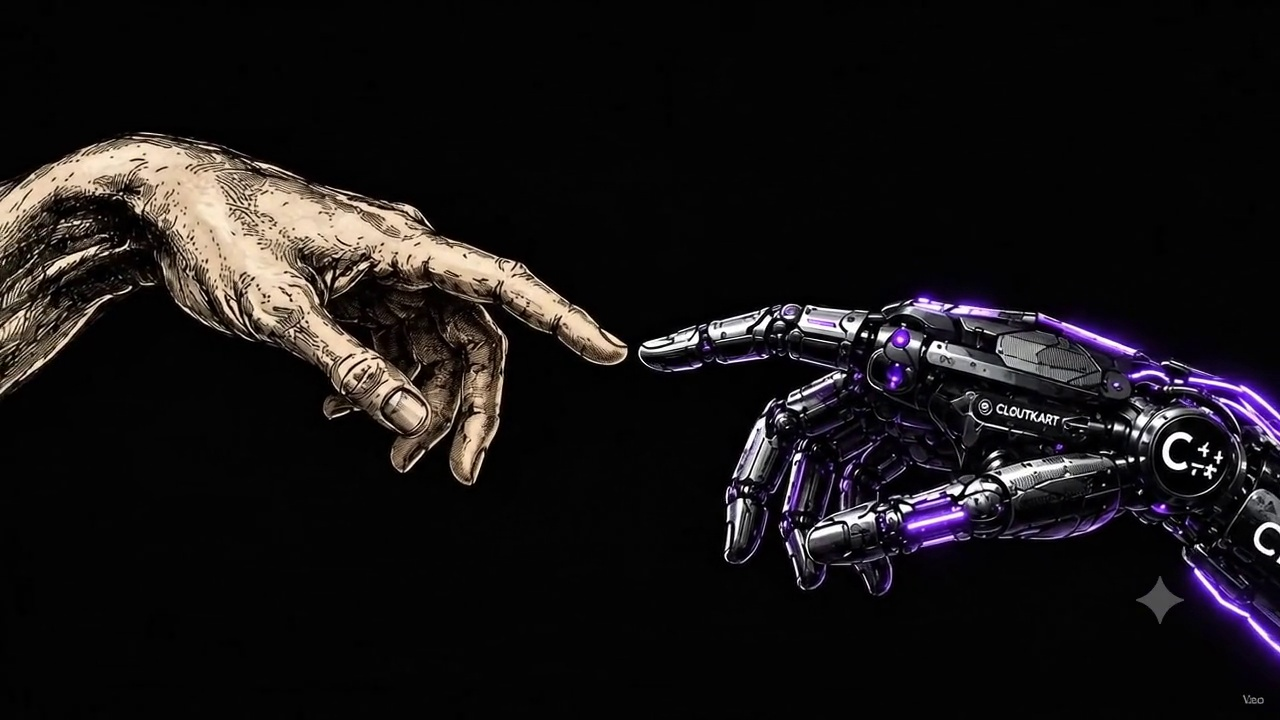
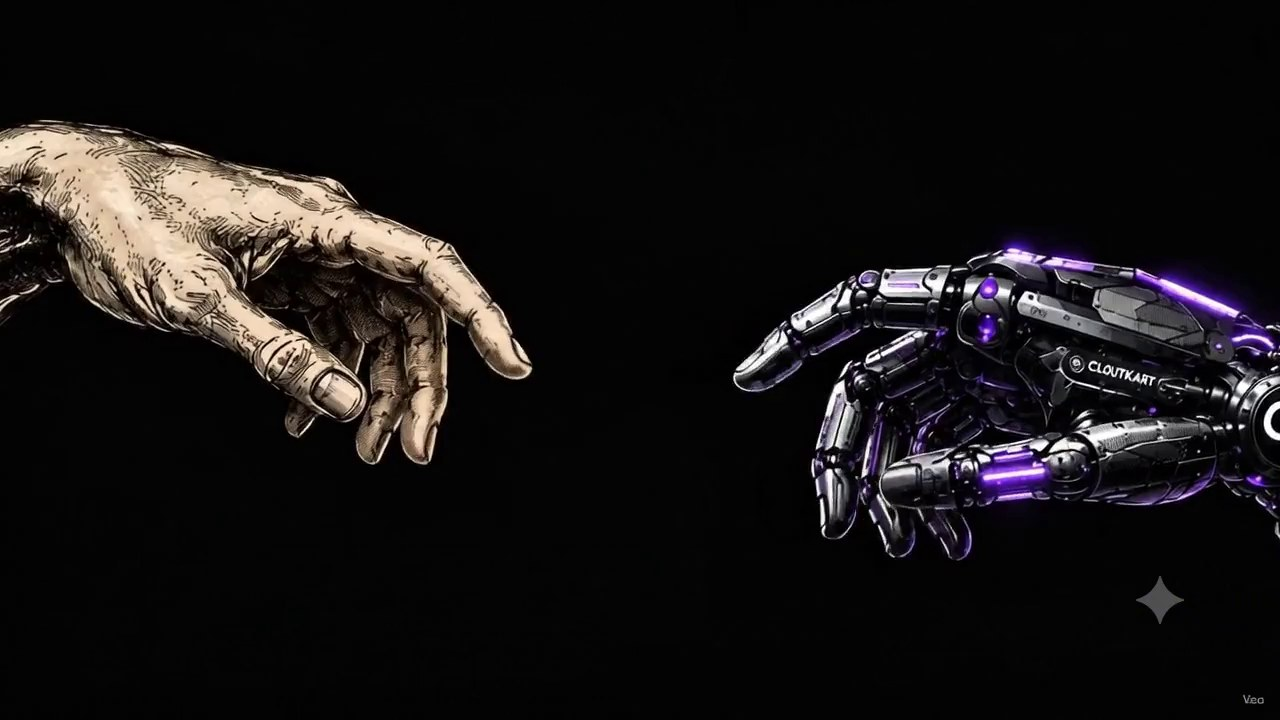
Sync hero video playback to scroll

Changed region(s): [[0.0, 0.1528, 1.0, 0.9472]]

diff --git a/src/components/Hero.tsx b/src/components/Hero.tsx
@@ -168,6 +168,7 @@ function VisionPreview() {
 export default function Hero({ onSignupOpen }: Props) {
   const heroRef = useRef<HTMLDivElement>(null);
   const videoLayerRef = useRef<HTMLDivElement>(null);
+  const heroVideoRef = useRef<HTMLVideoElement>(null);
   const statsRef = useRef<HTMLDivElement>(null);
   const { isLoggedIn } = useAuth();
   const navigate = useNavigate();
@@ -177,42 +178,55 @@ export default function Hero({ onSignupOpen }: Props) {
   const [convertActive, setConvertActive] = useState(false);
   const convertSvgRef = useRef<SVGSVGElement>(null);
 
-  // Move the oversized video against the page scroll to create depth while
-  // keeping the content layer stationary and readable.
+  // Scrub the video in both directions with the scroll position. The subtle
+  // opposing layer movement adds depth without moving the content itself.
   useEffect(() => {
     const hero = heroRef.current;
     const videoLayer = videoLayerRef.current;
-    if (!hero || !videoLayer) return;
+    const video = heroVideoRef.current;
+    if (!hero || !videoLayer || !video) return;
 
     const reducedMotion = window.matchMedia('(prefers-reduced-motion: reduce)');
     let frame = 0;
 
-    const updateParallax = () => {
+    const updateScrollAnimation = () => {
       frame = 0;
       if (reducedMotion.matches) {
         videoLayer.style.transform = 'translate3d(0, 0, 0) scale(1.06)';
+        if (video.readyState >= HTMLMediaElement.HAVE_METADATA) video.currentTime = 0;
         return;
       }
 
       const bounds = hero.getBoundingClientRect();
       const travelled = Math.min(Math.max(-bounds.top, 0), bounds.height);
+      const progress = Math.min(travelled / Math.max(bounds.height, 1), 1);
       const offset = Math.min(travelled * 0.16, 120);
       videoLayer.style.transform = `translate3d(0, ${offset}px, 0) scale(1.06)`;
+
+      if (video.readyState >= HTMLMediaElement.HAVE_METADATA && video.duration) {
+        const targetTime = progress * Math.max(video.duration - 0.04, 0);
+        if (Math.abs(video.currentTime - targetTime) > 1 / 60) {
+          video.currentTime = targetTime;
+        }
+      }
     };
 
     const requestUpdate = () => {
-      if (!frame) frame = window.requestAnimationFrame(updateParallax);
+      if (!frame) frame = window.requestAnimationFrame(updateScrollAnimation);
     };
 
-    updateParallax();
+    video.pause();
+    updateScrollAnimation();
     window.addEventListener('scroll', requestUpdate, { passive: true });
     window.addEventListener('resize', requestUpdate);
+    video.addEventListener('loadedmetadata', requestUpdate);
     reducedMotion.addEventListener('change', requestUpdate);
 
     return () => {
       if (frame) window.cancelAnimationFrame(frame);
       window.removeEventListener('scroll', requestUpdate);
       window.removeEventListener('resize', requestUpdate);
+      video.removeEventListener('loadedmetadata', requestUpdate);
       reducedMotion.removeEventListener('change', requestUpdate);
     };
   }, []);
@@ -291,14 +305,13 @@ export default function Hero({ onSignupOpen }: Props) {
         aria-hidden="true"
       >
         <video
+          ref={heroVideoRef}
           className="h-full w-full object-cover"
           src="/cloutkart-hero.mp4"
           poster="/cloutkart-hero-poster.jpg"
-          autoPlay
           muted
-          loop
           playsInline
-          preload="metadata"
+          preload="auto"
         />
       </div>
 
